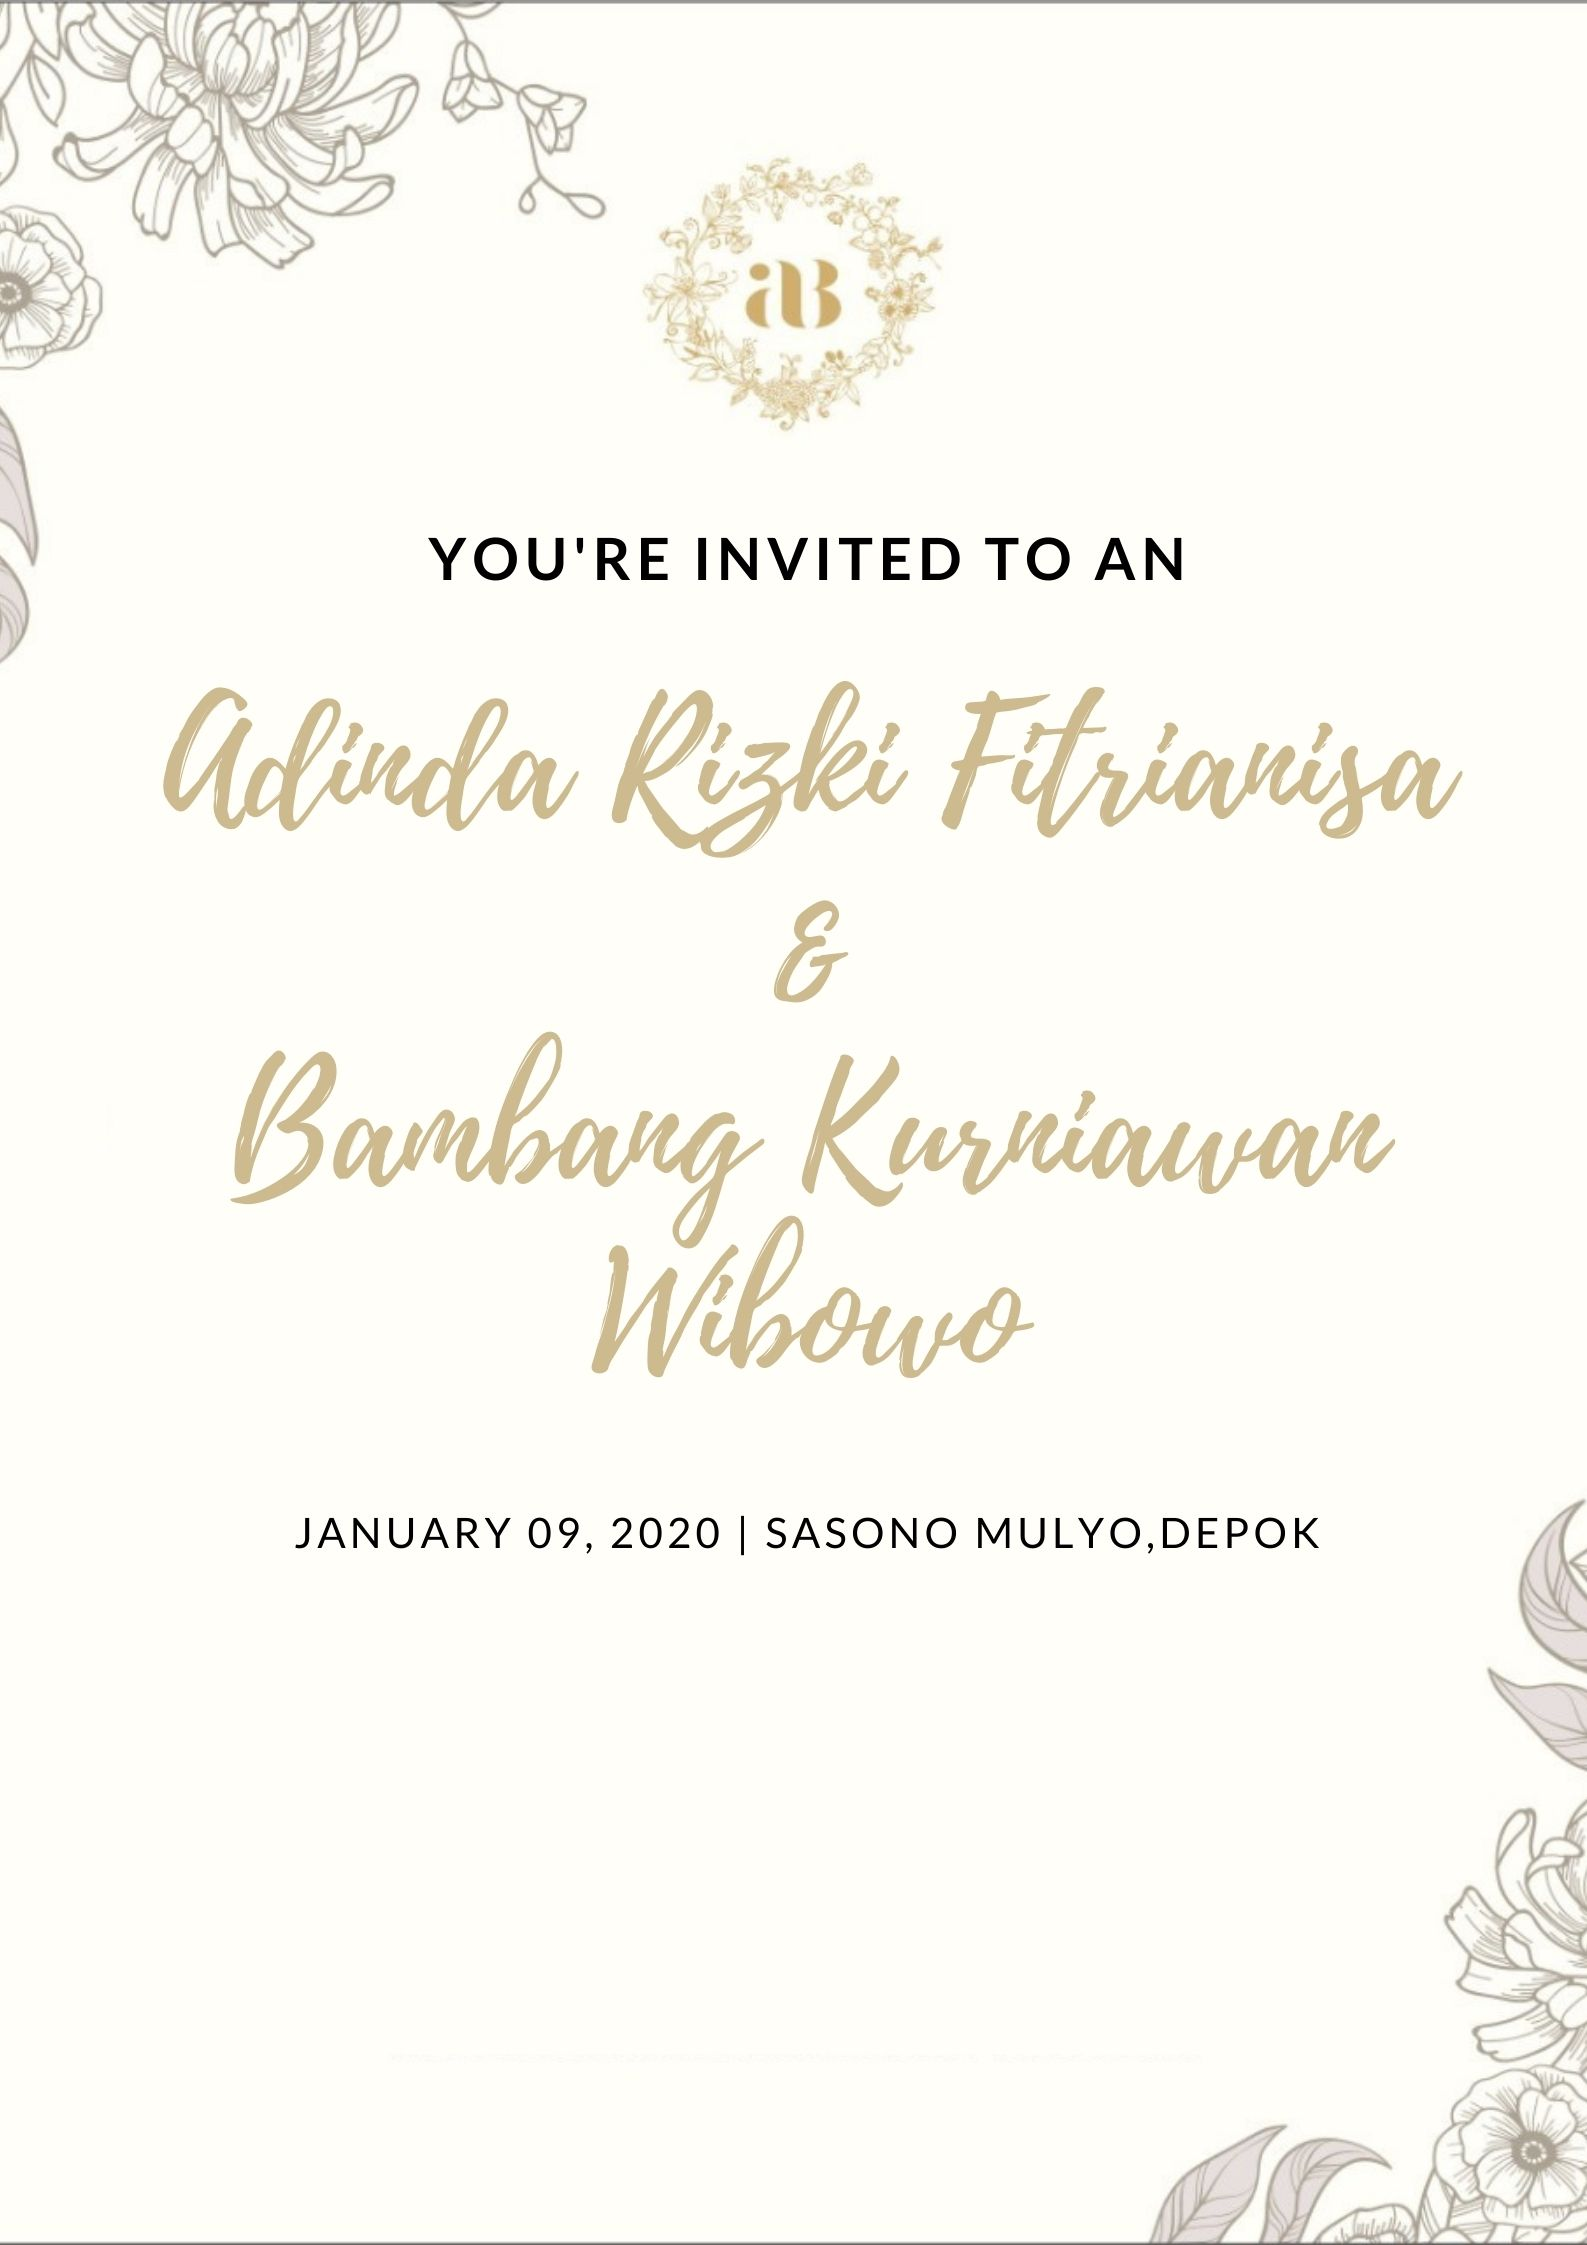
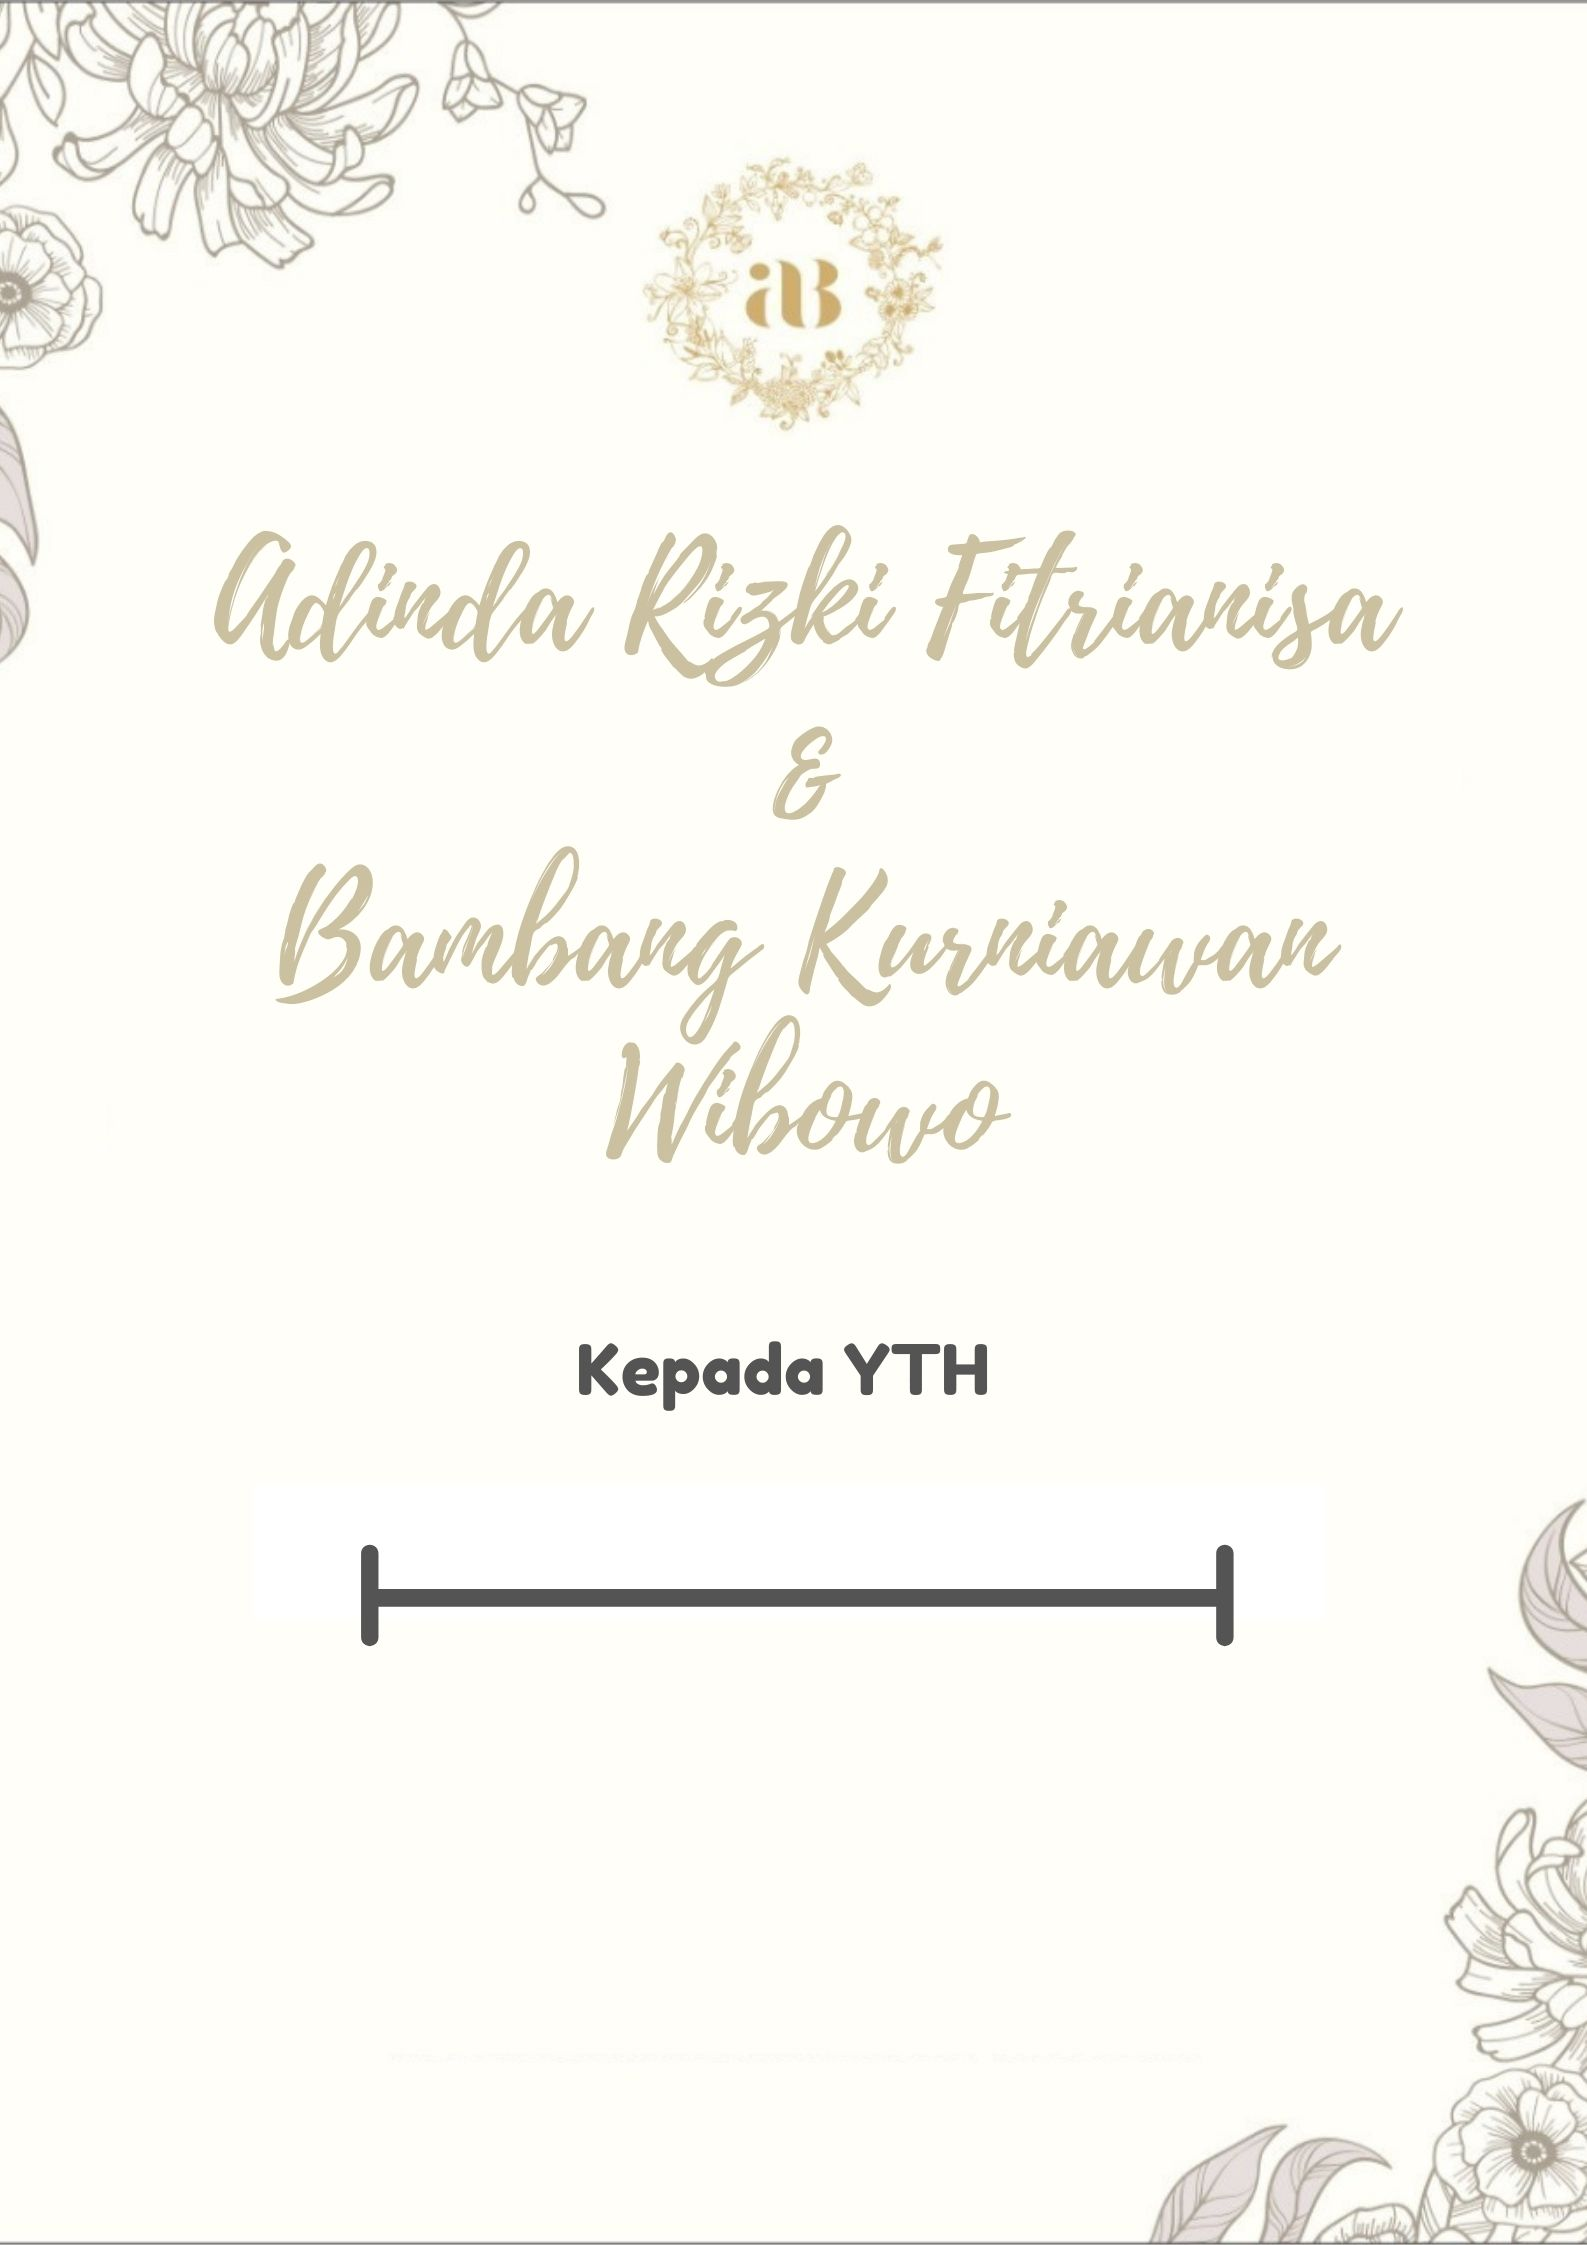
ubah tambah react

Changed region(s): [[0.0926, 0.2183, 0.9263, 0.6236], [0.1853, 0.6548, 0.8336, 0.7483], [0.0, 0.9978, 1.0, 1.0]]

diff --git a/src/Component/Cover/Cover.jsx b/src/Component/Cover/Cover.jsx
@@ -5,8 +5,8 @@ import cover from '../Cover/Cover1.jpg';
 const Cover =()=>{
 
       var gapi = window.gapi;
-      var CLIENT_ID=" 922700239463-3k9pjqpsimbq406enrtg0irqdjjohpcs.apps.googleusercontent.com ";
-      var API_KEY=" AIzaSyC9X8uYRb6qMOz3mfBoKIedv_e1YUuFC6M";
+      var CLIENT_ID="309104866685-27ukuktcp5rsktsrlf4hu7ch7h1muccv.apps.googleusercontent.com";
+      var API_KEY=" AIzaSyAl5xTz0N8YIPJGg9NQSHPhLBAvEJ--tzo";
       var DISCOVERY_DOCS = ["https://www.googleapis.com/discovery/v1/apis/calendar/v3/rest"];
       var SCOPES = "https://www.googleapis.com/auth/calendar.readonly";
  
@@ -20,17 +20,24 @@ const Cover =()=>{
                     discoveryDocs:DISCOVERY_DOCS,
                     scope: SCOPES,
                 })
-                gapi.client.load('calendar','v3', () =>console.log('Damn!!'))
-                // gapi.auth2.getAuthInstance().signIn()
-                console.log(gapi.auth2.getAuthInstance())
+                gapi.client.load('calendar','v3', () => console.log('Damn!!'))
+                gapi.auth2.getAuthInstance().signIn()
+              
+
             })
        }
 
     return(
         <div className='wrapcover'>
            <img className='img1' src={cover}/>
-           <div className='form'>
+           <div className='form5'>
+                <label className='labelnama'>Nama Guest</label>
+            </div>
+           <div className='form4'>
             <button className="btnopens" onClick={handleClick}>SAVE THE DATE</button>
+            </div>
+            <div className='form6'>
+                <label className='labeltempat'>Nama Tempat</label>
             </div>
          </div>
 

diff --git a/src/Component/Cover/Cover.css b/src/Component/Cover/Cover.css
@@ -12,10 +12,10 @@
 }
 
 
-.form{
+.form4{
     height: auto;
     position: absolute;
-    top: 70%;
+    top: 80%;
     padding-bottom: 20%;
     width: 100%;
     margin-right: auto;
@@ -37,6 +37,37 @@
     
 
 }
+.form5{
+    height: auto;
+    position: absolute;
+    display: flex;
+    justify-content: center;
+    align-items: center;
+    top: 65%;
+    width: 100%;
+    margin-right: auto;
+    font-family: 'fredoka one';
+    font-size: 20px;
+}
+.labelnama{
+    color:#545454;
+}
+.form6{
+    height: auto;
+    position: absolute;
+    display: flex;
+    justify-content: center;
+    align-items: center;
+    top: 74%;
+    width: 100%;
+    margin-right: auto;
+    font-family: 'fredoka one';
+    font-size: 20px;
+}
+.labeltempat{
+    color:#545454;
+}
+
 
 
 @media only screen and (min-width: 768px) and (max-width: 991px) {
